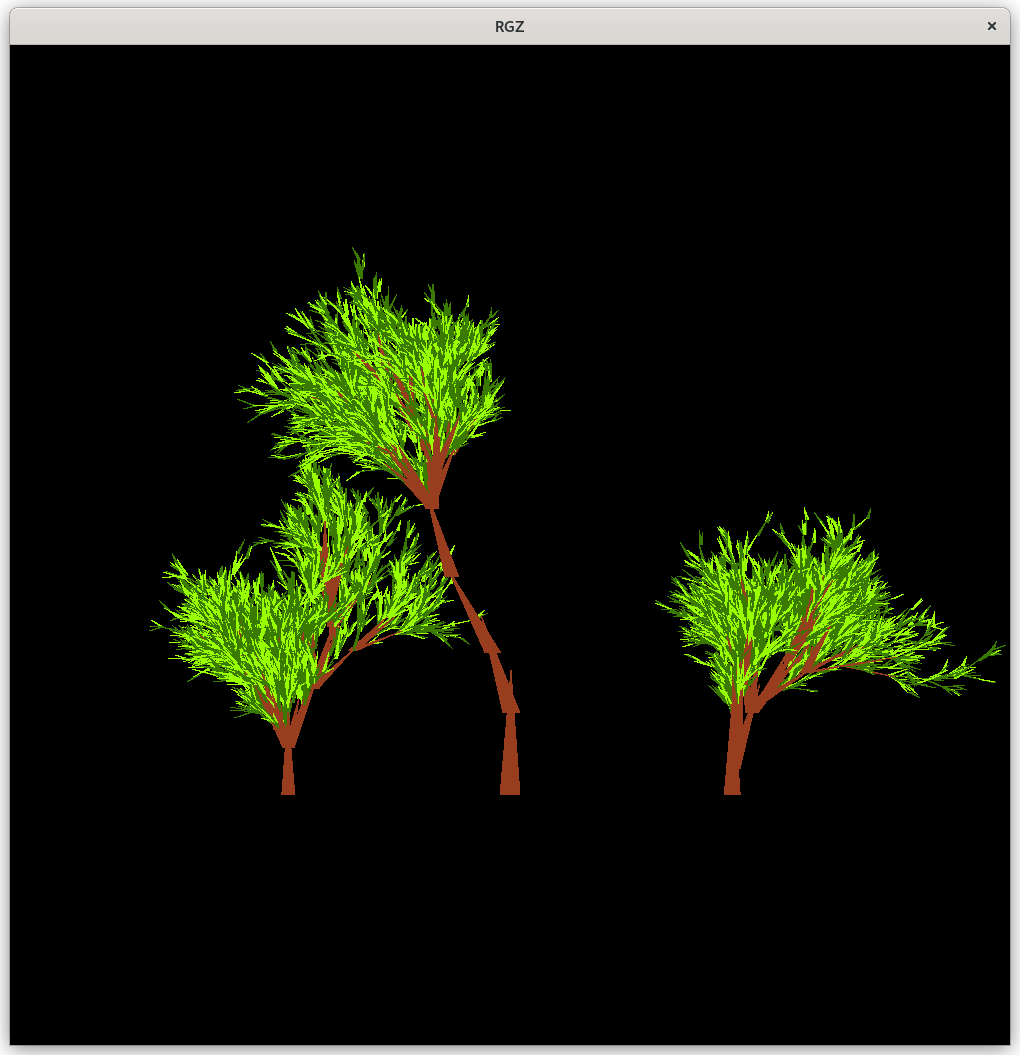
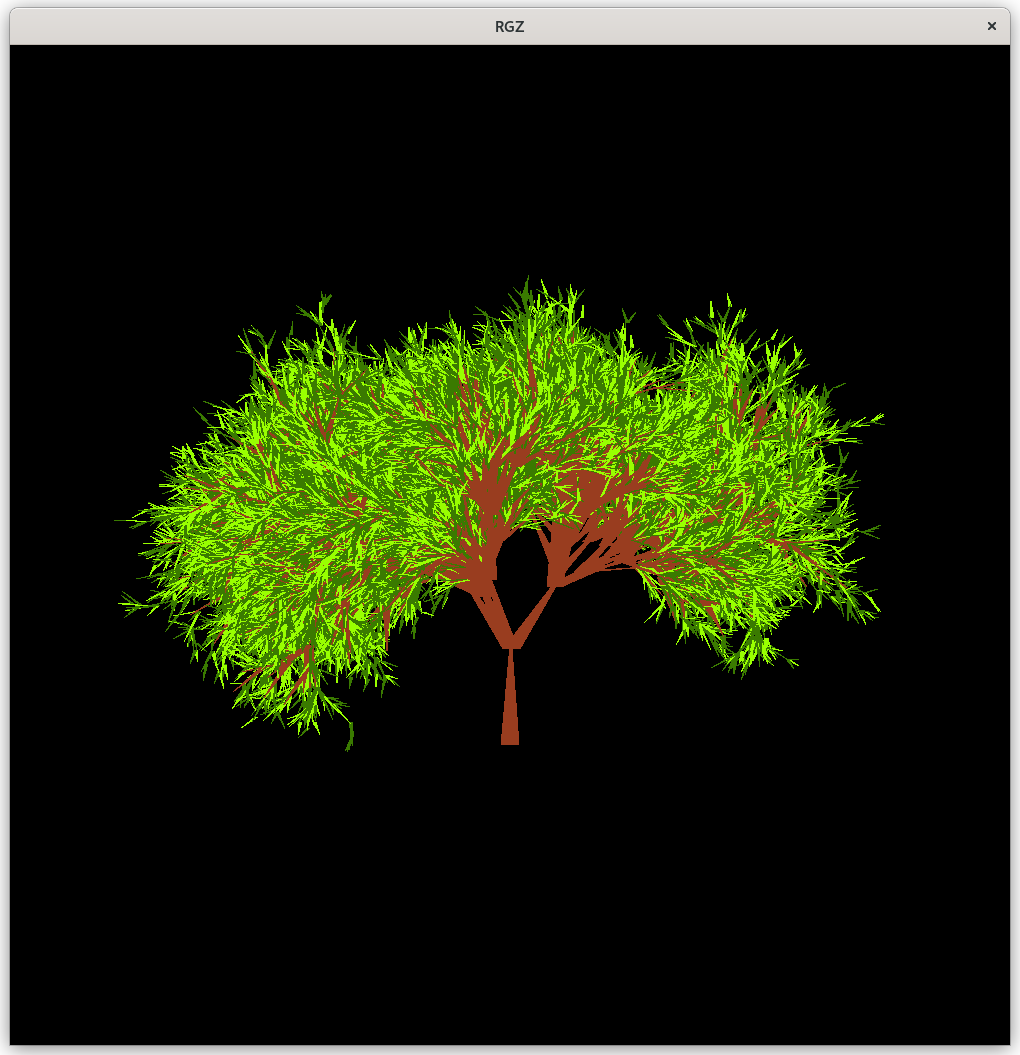
inf

Changed region(s): [[0.1216, 0.2427, 0.9725, 0.7583]]

diff --git a/fractal.c b/fractal.c
@@ -42,11 +42,8 @@ int createNumOfBranches();
 
 const int WINDOW_WIDTH = 1000;
 const int WINDOW_HEIGHT = 1000;
-const int MIN_LENGTH = WINDOW_HEIGHT / 100;
+const int MIN_LENGTH = WINDOW_HEIGHT / 80;
 const int MAX_LENGTH = WINDOW_HEIGHT / 5;
-
-int RECURS_COUNTER = 0;
-const int RECURS_COUNTER_LIMIT = 30000;
 
 int main(int argc, char *argv[]) {
   glutInit(&argc, argv);
@@ -85,19 +82,15 @@ void resize(int width, int height) {}
 
 void display() {
   glViewport(0, 0, WINDOW_WIDTH, WINDOW_HEIGHT);
-  drawTree(0, -WINDOW_WIDTH / 4, M_PI / 2, WINDOW_WIDTH / 8);
-  RECURS_COUNTER = 0;
-  drawTree(WINDOW_WIDTH / 4.5, -WINDOW_WIDTH / 4, M_PI / 2, WINDOW_WIDTH / 10);
-  RECURS_COUNTER = 0;
-  drawTree(-WINDOW_WIDTH / 4.5, -WINDOW_WIDTH / 4, M_PI / 2, WINDOW_WIDTH / 12);
+  drawTree(0, 0, M_PI / 2, WINDOW_WIDTH / 9);
+  drawTree(WINDOW_WIDTH / 4, -WINDOW_WIDTH / 2, M_PI / 2, WINDOW_WIDTH / 9);
+  drawTree(-WINDOW_WIDTH / 4, -WINDOW_WIDTH / 2, M_PI / 2, WINDOW_WIDTH / 10);
 
   glFlush();
 }
 
 void drawTree(double x, double y, double angle, double length) {
-  RECURS_COUNTER++;
-
-  if (length > MIN_LENGTH && RECURS_COUNTER < RECURS_COUNTER_LIMIT) {
+  if (length > MIN_LENGTH) {
     double x1 = createXCoordinate(x, length, angle);
     double y1 = createYCoordinate(y, length, angle);
     double length_factor = createLenghtFactor(length);
@@ -105,7 +98,7 @@ void drawTree(double x, double y, double angle, double length) {
 
     if (length > MAX_LENGTH) length = WINDOW_HEIGHT / 8;
 
-    if (length < WINDOW_HEIGHT / 20)
+    if (length < WINDOW_HEIGHT / 25)
       drawLeaf(x, y, x1, y1);
     else
       drawTrunk(x, y, x1, y1, length);
@@ -155,9 +148,9 @@ double createYCoordinate(double bias, double coefficient, double angle) {
   return ceil(bias + coefficient * sin(angle));
 }
 
-int createNumOfBranches() { return (9 - ceil(rand() % 5)); }
+int createNumOfBranches() { return (8 - ceil(rand() % 5)); }
 
-double createAngle(double angle) { return angle + 0.1 * (5 - rand() % 10); }
+double createAngle(double angle) { return angle + 0.15 * (5 - rand() % 10); }
 
 double createLenghtFactor(double length) {
   return (rand() % (int)(length - ceil(length / 6)) + ceil(length / 6));

diff --git a/README.md b/README.md
@@ -29,6 +29,5 @@
 Меньше минимума - не отрисовываем. \
 Больше максимума - нормируем.
 * Затем создается случайное количество веток на текущем проходе, для каждой ветки рекурсивно вызывается функция прорисовки.
-* Существует условие остановки рекурсии в случае более 30 тысяч проходов. 
 
 ![RGZ](examples/Ex2.png)
